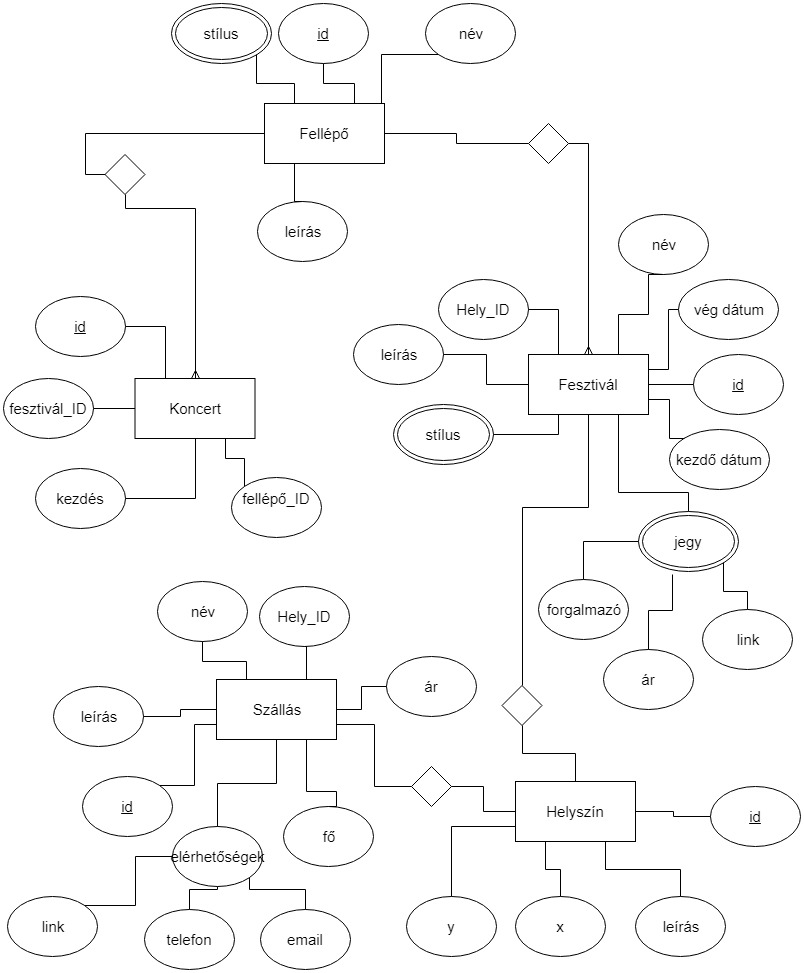
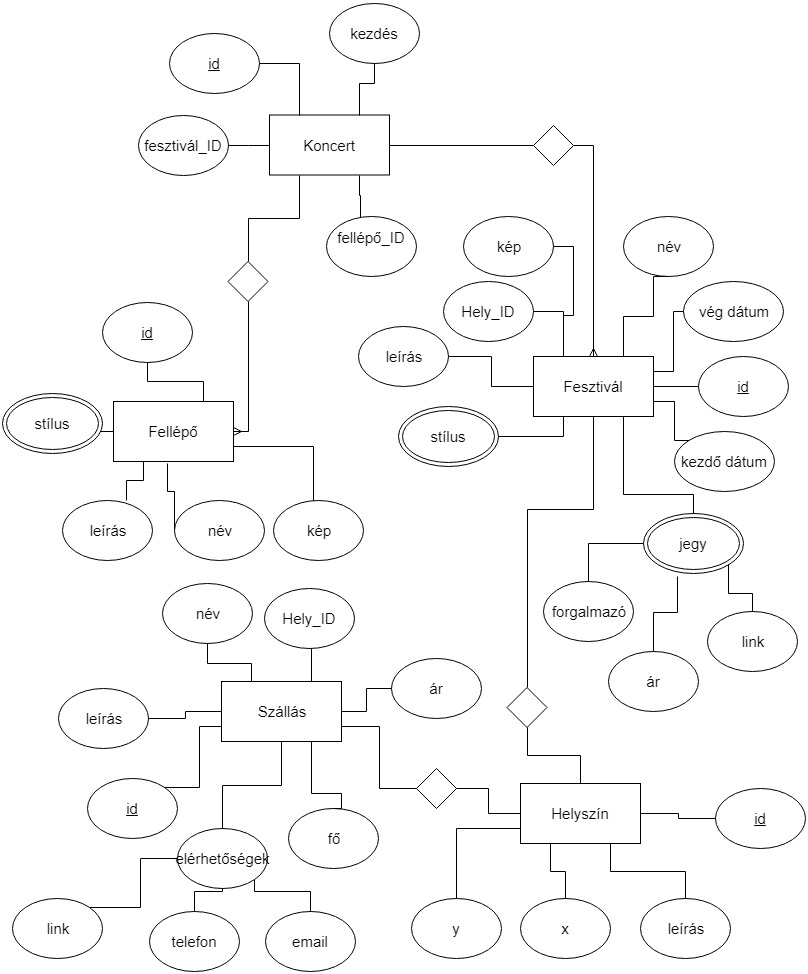
nyelvhelyesség, és apróbb hibák fixálása

diff --git a/dolgozat/fejezetek/4_tervezes.tex b/dolgozat/fejezetek/4_tervezes.tex
@@ -56,8 +56,13 @@ A megvalósuló projektből kliens oldalon ki fog maradni a desktop és a mobil 
 
 \subsection{Fejlesztői környezetek}
 
-A fejlesztéshez a JetBrains termékeit fogom használni. A szerveroldali fejlesztéshez az InteliJ IDEA nevű szoftvert, a front-end-hez pedig a WebStorm-ot. Azért döntöttem mellettük, mert nagyon színvonalas eszközök, sokrétűen támogatják a fejlesztést. 
-Ezenkívül a Postman alkalmazást használom a minta kérések beküldéséhez, ezáltal a funkciók teszteléséhez szerver oldalon. 
+A fejlesztéshez a JetBrains termékeit fogom használni. A szerveroldali fejlesztéshez az InteliJ IDEA nevű szoftvert, a front-end-hez pedig a WebStorm-ot. Azért döntöttem mellettük, mert nagyon színvonalas eszközök, sokrétűen támogatják a fejlesztést.
+ 
+A Postman alkalmazást használom a minta kérések beküldéséhez, ezáltal a funkciók teszteléséhez szerver oldalon.
+
+A JMeter alkalmazást használom a stressztesztek elvégzéséhez és monitorozásához.
+
+A szoftverek verziókövetését pedig a GitHub.com segítségével végzem.
 
 \section{Az alkalmazás tervezése}
 
@@ -79,17 +84,17 @@ ER-modellt használtam ahhoz, hogy szemléltessem az egyedek között fennálló
 \label{fig:usEr}
 \end{figure}
 
-Lesz egy fellépő egyedünk, mivel zenei fesztiválokban gondolkodunk, így ezek zenekarok, vagy zenészek lesznek elsősorban. Egy fellépő több stílusban is játszhat, hisz ha egy zenekar népzenét játszik, az nem zárja ki, hogy ezt ötvözzék rockzenei motívumokkal. Sőt rengeteg előadó játszik több stílusban. A fellépőről tartunk számon egy rövid leírást. És elengedhetetlen, hogy az előadó nevét letároljuk. Az egyedi azonosítót pedig automatikusan generáltatjuk. 
+Lesz egy fellépő egyedünk, mivel zenei fesztiválokban gondolkodunk, így ezek zenekarok, vagy zenészek lesznek elsősorban. Egy fellépő több stílusban is játszhat, hisz ha egy zenekar népzenét játszik, az nem zárja ki, hogy ezt ötvözzék rockzenei motívumokkal. Sőt rengeteg előadó játszik több stílusban. A fellépőről tartunk számon egy rövid leírást. És elengedhetetlen, hogy az előadó nevét letároljuk. Tárolhatunk egy képet is az előadókról. Ezt egy központi mappában tesszük meg, viszont az előadóhoz tartozó fájl nevét a fellépő táblában is le kell tárolnunk. Az egyedi azonosítót pedig automatikusan generáltatjuk. 
 
-Egy fesztiválkereső alkalmazást készítünk, így nem meglepő, hogy lesz egy fesztivál nevű entitásunk is. És talán ez lesz a legnagyobb komplexitású is. Minden fesztiválnak van egy neve, amely alapján a legkönnyebben azonosítják a rendszer felhasználói. Mivel egy ilyen esemény nem tart általában egész évben, ezért van egy kezdetét és végét jelző dátum. Erre a két időpontra azért is lesz szükségünk, hogy az érdeklő előre tudja  tervezni a programjait, és egyáltalán tudja, hogy nem-e ütközik valami más eseménnyel az általa kiválasztott fesztivál. Egy fesztiválnak is lehet több stílusa akár csak egy zenekarnak. Ahogy fentebb írtam itt nem csak a stílusok férnek bele, hanem egyéb jelzők is. Az ID generálást itt is az adatbázisra bízzuk. A leírás részt azoknak az információknak tartjuk fent, amelyekre nem készítettük fel a rendszerünk, és a marketing szövegeknek is kiváló helyet biztosít. A jegy a fejlesztés első fázisában nem lesz bevezetve, így csak egy hyperlink-et tartalmaz majd a forgalmazó weboldalára és nem külön egyedként, hanem egy oszlopként reprezentálódik az adatbázisban.
+Egy fesztiválkereső alkalmazást készítünk, így nem meglepő, hogy lesz egy fesztivál nevű entitásunk is. És talán ez lesz a legnagyobb komplexitású is. Minden fesztiválnak van egy neve, amely alapján a legkönnyebben azonosítják a rendszer felhasználói. Mivel egy ilyen esemény nem tart általában egész évben, ezért van egy kezdetét és végét jelző dátum. Erre a két időpontra azért is lesz szükségünk, hogy az érdeklő előre tudja  tervezni a programjait, és egyáltalán tudja, hogy nem-e ütközik valami más eseménnyel az általa kiválasztott fesztivál. Egy fesztiválnak is lehet több stílusa akár csak egy zenekarnak. Ahogy fentebb írtam itt nem csak a stílusok férnek bele, hanem egyéb jelzők is. Az ID generálást itt is az adatbázisra bízzuk. A leírás részt azoknak az információknak tartjuk fent, amelyekre nem készítettük fel a rendszerünk, és a marketing szövegeknek is kiváló helyet biztosít. A jegy a fejlesztés első fázisában nem lesz bevezetve, így csak egy hyperlink-et tartalmaz majd a forgalmazó weboldalára és nem külön egyedként, hanem egy oszlopként reprezentálódik az adatbázisban. A fesztiválhoz is tartozik egy kép, itt is a nevét mentjük az adatbázisba, a képet pedig egy központi tároló mappába. 
 
 Koncert táblában két idegen kulcs lesz megtalálható, mivel ez a tábla kapcsolja össze a fellépőt a fesztivállal és ezáltal megtudjuk azt is, hogy milyen előadók vesznek részt az általunk preferált fesztiválon. Azt is megtudjuk nézni, hogy mikor kezdődik a számunkra érdekes előadás, mert egy kezdés nevű tulajdonságot is bevezettem. Lehetett volna tárolni azt is hogy mikor van vége. Alapvetően ez csak egy kapcsoló tábla, így nem szerettem volna túl bonyolítani, és ha valakit érdekel egy program, akkor úgyis kivárja a végét. Egyedi azonosítója ennek a táblának is lesz, amit itt is az adatbázisra bízunk.
 
-Lesz egy helyszín nevű táblánk, amiben címek pozícióit lehet tárolni. Erre azért lesz szükségünk, hogy le tudjuk tárolni, hogy pontosan hol lesz az esemény, vagy a szállás. Természetesen itt is lesz egyedi azonosító minden rekordunkhoz. Ha az x és az y koordinátát tároljunk, akkor rengeteg dolgot ki tudunk váltani ezzel. Van a földnek egy egységes, minden tudományos intézmény által elfogadott geo koordináta rendszere. Ahol minden pozícióhoz tartozik egy hosszúsági és szélességi fok. Ezzel ki lehet váltani az hogy tároljuk a várost, az utcát, a házszámot, irányítószámot. De akár egy fesztivált szervezhetnek olyan helyre is, ahol ezek nincsenek is, akkor ahhoz egy másik struktúrát kellene bevezetni, amiben helyrajzi számot adunk át. És ha ezt a fesztivál szervező úgy kívánja megadni, hogy például az esemény egy adott csarnokban, vagy kulturális központban lesz, akkor megint egy újabb struktúra kerülne bevezetésre. Ha viszont csak a koordinátákat tároljuk, akkor ezeket valamilyen API-n keresztül, vagy előre mások által legyártott adatbázisból könnyen elérhetjük ezt egy koordináta rendszerbeli pont segítségével. Ha a legismertebb Google nevű cég által készített térkép alkalmazást nézzük, ott az egyes koordinátákhoz, nem csak címeket, de akár éttermeket, boltokat, cégeket és minden egyebet tárolhatunk, sőt ezeket még értékelni is lehet. Egy leírást is tárolunk, itt meg lehet adni extra információkat, hol és hogyan közelíthető meg a megadott pont, illetve amíg nem integráljuk az alkalmazást egy API-hoz vagy egyéb elérhető lehetőségek közül addig magát a címet is itt tároljuk.
+Lesz egy helyszín nevű táblánk, amiben címek pozícióit lehet tárolni. Erre azért lesz szükségünk, hogy le tudjuk tárolni, hogy pontosan hol lesz az esemény, vagy a szállás. Természetesen itt is lesz egyedi azonosító minden rekordunkhoz. Ha az x és az y koordinátát tároljunk, akkor rengeteg dolgot ki tudunk váltani ezzel. Van a földnek egy egységes, minden tudományos intézmény által elfogadott geo koordináta rendszere. Ahol minden pozícióhoz tartozik egy hosszúsági és szélességi fok. Ezzel ki lehet váltani azt, hogy tárolni kelljen a várost, az utcát, a házszámot és az irányítószámot. Egy fesztivált szervezhetnek olyan helyre is, ahol ezek nincsenek is, akkor ahhoz egy másik struktúrát kellene bevezetni, amiben helyrajzi számot adunk át. És ha ezt a fesztivál szervező úgy kívánja megadni, hogy például az esemény egy adott csarnokban, vagy kulturális központban lesz, akkor megint egy újabb struktúra kerülne bevezetésre. Ha viszont csak a koordinátákat tároljuk, akkor ezeket valamilyen API-n keresztül, vagy előre mások által legyártott adatbázisból könnyen elérhetjük ezt egy koordináta rendszerbeli pont segítségével. Ha a legismertebb Google nevű cég által készített térkép alkalmazást nézzük, ott az egyes koordinátákhoz, nem csak címeket, de akár éttermeket, boltokat, cégeket és minden egyebet tárolhatunk, sőt ezeket még értékelni is lehet. Egy leírást is tárolunk, itt meg lehet adni extra információkat, hol és hogyan közelíthető meg a megadott pont, illetve amíg nem integráljuk az alkalmazást egy API-hoz vagy egyéb elérhető lehetőségek közül addig magát a címet is itt tároljuk.
 
 A szállásokat is tároljuk az adatbázisunkban. Lesz egy fő nevű oszlopunk amely azt tárolja, hogy a szállás hány személyt képes befogadni, ez egy kisebb baráti társaság esetén lehet érdekes. Az ár tulajdonság egységárat tárol, tehát hogy mennyibe kerül egy éjszaka egy fő részére. Általában vannak egyedi konstrukciók, kedvezmények, de mivel mi nem foglalkozunk a foglalással, ezért csak irányárat mutatunk. Szolgáltatunk egy linket, ahol a foglalást el tudják végezni. Természetesen a szállás nevét is megadjuk. A címét az idegen kulcs segítségével könnyen megkaphatjuk. A leírásban minden egyebet tudunk rögzíteni. Az szállásadó elérhetőségeit is megadjuk az érdeklődök számára. A foglalási linken túl még egy telefonszámot és egy email címet is szolgáltat az alkalmazásunk.
 
-Végül, de nem utolsósorban jönnek a felhasználóink, az alkalmazás regisztráció nélkül is teljes értékű alkalmazást nyújt egy keresni szándékozó felhasználó számára. A regisztrációra csak annak van szüksége, aki fel szeretne vinni az adatbázisba rekordokat. Itt több jogosultság is  felmerülhet. Fesztiválmenedzseri, aki a koncerteket, fesztiválokat viheti fel, ő felelős egy vagy több fesztivál menedzseléséért, a zenekarmenedzser, hasonló mint a fesztivál menedzser csak ő a fellépőkért felel. Adminisztrátori neki mindenhez van jogosultsága ami elérhető az alkalmazásból. Mi csak az adminisztrátori jogot fogjuk kiosztani, illetve az átlag felhasználót. A felhasználó személyes adatai közül az e-mail címét, nevét, születési dátumát és a lakhelyét, valamint a jelszavát tároljuk, amit valamilyen hasító algoritmuson lefuttathatunk előtte. Mint mindig itt is az adatbázisunk generálja az azonosítót.
+Végül, de nem utolsósorban jönnek a felhasználóink, az alkalmazás regisztráció nélkül is teljes értékű alkalmazást nyújt egy keresni szándékozó felhasználó számára. A regisztrációra csak annak van szüksége, aki fel szeretne vinni az adatbázisba rekordokat. Itt több jogosultság is  felmerülhet. Fesztiválmenedzseri, aki a koncerteket, fesztiválokat viheti fel, ő felelős egy vagy több fesztivál menedzseléséért, a zenekarmenedzser, hasonló mint a fesztivál menedzser csak ő a fellépőkért felel. Adminisztrátori, akinek mindenhez van jogosultsága ami elérhető az alkalmazásból. Mi csak az adminisztrátori jogot fogjuk kiosztani, illetve az átlag felhasználót. A felhasználó személyes adatai közül az e-mail címét, nevét, születési dátumát és a lakhelyét, valamint a jelszavát tároljuk, amit valamilyen hasító algoritmuson lefuttathatunk előtte. Mint mindig itt is az adatbázisunk generálja az azonosítót.
 
 Az egyedek között fent álló relációk a következőek:
 \begin{itemize}
@@ -255,9 +260,3 @@ Módosítások:
 \item Szállás törlésénél is figyelni kell, hogy a hozzátartozó helyszínt is törölni kell vele együtt.
 \item Amelyik fesztivál és koncert elmúlt, tehát a befejezés dátumán már az aktuális naptári idő  túlhaladt, azt archiválni kell. Erre a funkcióra elég egy triggert írni. Archiválás megvalósítása megoldható úgy, hogy átmozgatjuk egy másik táblába, vagy egy új változó bevezetésével, és azt hogy elérhető-e elég igazról hamisra állítani. Esetleg a mindent vissza adó függvény csak azt adja vissza amelynek a befejező dátuma nagyobb mint az aktuális dátum.
 \end{itemize}
-
-\begin{comment}{Az egyes hibalehetőségeket is sorra kellene majd venni!}
-\end{comment}
-
-\begin{comment}{Meg kellene nézni, hogy hogy lehetne esetleg még jobban csoportosítani a listaelemekben említett dolgokat, és inkább alpontokba rendezni alcímekkel együtt.}
-\end{comment}

diff --git a/dolgozat/fejezetek/2_hasonlo_alkalmazasok.tex b/dolgozat/fejezetek/2_hasonlo_alkalmazasok.tex
@@ -20,7 +20,7 @@ A fesztiválokhoz nagyon változatos és sokrétű funkció csoportok tartoznak,
 
 A fesztiválozáshoz, mint szolgáltatáshoz közvetlenül kapcsolódó funkciók az alábbiak.
 \begin{itemize}
-\item Koncertek, a legnagyobb vonzereje a fesztiválnak. A koncert szolgáltatást a fellépők nyújtják a résztvevők számára, gyakran párhuzamosan több színpadon is párhuzamosan. Ezeket kellő időben és helyen kell megismertetni a közönséggel. Ide értve nem csak a zenei produkciókat, de egyéb performance-t, és előadásokat, prevenciókat.
+\item Koncertek, a legnagyobb vonzereje a fesztiválnak. A koncert szolgáltatást a fellépők nyújtják a résztvevők számára, gyakran több színpadon párhuzamosan. Ezeket kellő időben és helyen kell megismertetni a közönséggel. Ide értve nem csak a zenei produkciókat, de egyéb performance-t, és előadásokat, prevenciókat.
 \item Élelmiszer és ital árusítás. Alapvető szükségletet elégít ki, mivel a zenei fesztiválok jelentős része 3-10 napos periódusban gondolkodik, így jelentős összeget költenek erre a kategóriára. Gyakran többet mint magára a belépőre, utazásra, szállásra.
 \item Egyéb sport, kulturális, szellemi programok, vetélkedők. Technológiai bemutatók kipróbálási lehetőséggel.
 \item VIP szolgáltatások, közönségtalálkozók.
@@ -49,7 +49,7 @@ Melyek azok a szolgáltatások, amelyek érdekelni fogják a felhasználót, sze
 \begin{itemize}
 \item Fellépők listája, mint már említettem ez az egyik legfőbb vonzerő.
 \item Az extrém nem mindenhol kipróbálható sportolási, technológiai lehetőség.
-\item Hasznos lehet a környékbeli étkezők elérhetősége, akár étlapja árakkal. Tudjuk, hogy a fesztiválok a magas áraikról és főleg a gyors kajáikról híresek. Érdemes lehet az olcsóbb, vagy a gasztronómia szerelmeseinek a környező elit éttermekről előre információt nyújtani.
+\item Hasznos lehet a környékbeli étkezők elérhetősége, akár étlapja árakkal. Tudjuk, hogy a fesztiválok a magas áraikról és főleg a gyors étkezdéikről híresek. Érdemes lehet az olcsóbb, vagy a gasztronómia szerelmeseinek a környező elit éttermekről előre információt nyújtani.
 \item Dohányboltok, illetve dohányzás. Magyarországon jelenleg a jogszabályi környezet befolyásolja a dohányáruk vásárlási helyét, erről nyújthat információt egy alkalmazás, és arról is, hogy lehetséges-e dohányozni a fesztiválterületen vagy sem.
 \item Szállás, vannak olyan fesztiválok, amelyek sátorhelyet és/vagy faházat biztosítanak a közönségük számára. Emellett megjeleníthetőek a kollégiumok, apartmanok, szállodák.
 \item Kutyabarátság, kutya bevihető-e a rendezvényre.
@@ -87,7 +87,7 @@ Lehet település, kerület, illetve megye szerint is keresni. Típus és dátum
 
 \subsection{Élményem.hu}
 
-5+1. http://elmenyem.hu : Az oldal nem rendelkezik fesztiválkereső résszel, ez inkább egy blog. De rengeteg aktualitással, hírekkel szolgál a jövőben megrendezendő eseményekkel kapcsolatban. 
+5+1. http://elmenyem.hu : Az oldal nem rendelkezik fesztiválkereső résszel. Ez inkább egy blog, de rengeteg aktualitással, hírekkel szolgál a jövőben megrendezendő eseményekkel kapcsolatban. 
 
 \subsection{Weboldalak összegzése}
 
@@ -136,7 +136,7 @@ Extra lehetőségek, amelyekkel nem éltek az itt feltüntetett weboldalak:
 
 \item Közlekedés: Érdemes lehet feltüntetni, magát a fesztivál koordinátáit, mint ezt a programturizmus.hu weboldalon láthattuk, emellett érdemes lehet parkolási lehetőségekről térképen előre informálni az odaérkezőket, egy nagyobb eseményre akár több ezer személyautóval is érkezhetnek. A buszpályaudvarról és vasútállomásról a célhoz eljutást segítő helyi járatok menetrendjét is lehetne mellékelni. Az eseménnyel szerződött taxivállalatok telefonszámait felsorolni. A gyalogos eljutást térkép segítségével megmutatni.
 
-\item Szállás: Mint láthattuk, majdnem mindegyik weboldal ajánlott szállást hotelekben. De a fesztiválok klasszikus közönsége, az nem szállodákban alszik. Általában sátorban, faházakban, kollégiumokban, vagy épp ahol eléri az álom. Érdemes lenne jelezni a felhasználó felé, hogy lehet-e sátrazni, és ha igen, van-e ennek extra költsége. A kollégiumokat, faházakat is lehetne ilyen módon jelezni.
+\item Szállás: Mint láthattuk, majdnem mindegyik weboldal ajánlott szállást hotelekben, de a fesztiválok klasszikus közönsége, az nem szállodákban alszik. Általában sátorban, faházakban, kollégiumokban, vagy épp ahol eléri az álom. Érdemes lenne jelezni a felhasználó felé, hogy lehet-e sátrazni, és ha igen, van-e ennek extra költsége. A kollégiumokat, faházakat is lehetne ilyen módon jelezni.
 
 \item Időjárás: Ez sajnos nem jósolható hónapokkal előre, de pár héttel a fesztivál kezdete előtt ez is felkerülhetne. Hisz mint tudjuk, ezen események javarészt fedetlen vagy részben fedett helyeken zajlanak.
 

diff --git a/dolgozat/fejezetek/6_teszteles.tex b/dolgozat/fejezetek/6_teszteles.tex
@@ -35,12 +35,12 @@ A felhasználói felületet funkcionális tesztekkel manuálisan tudtam teszteln
 
 \subsection{Back-end tesztelése}
 
-A back-end-nél szokás használni a test driven fejlesztést, ez azt jelenti hogy először megírjuk a teszteket és utána a kódot hozzá. Minden modul akkor áll készen, ha definiált tesztek sikeresen lefutottak. Majd jöhet a következő modul, viszont azt már úgy kell elkészítenünk, hogy a saját tesztjei is lefussanak, illetve a régebben elkészített modulok tesztjei is sikeresek maradjanak. 
+A Spring-nél szokás használni a tesztelés által irányított fejlesztést(TDD), ez azt jelenti hogy először megírjuk a teszteket és utána a kódot hozzá. Minden modul akkor áll készen, ha definiált tesztek sikeresen lefutottak. Majd jöhet a következő modul, viszont azt már úgy kell elkészítenünk, hogy a saját tesztjei is lefussanak, illetve a régebben elkészített modulok tesztjei is sikeresek maradjanak. Én nem így készítettem el a modult, csak már a kész modulokat teszteltem.
+
+Először a back-enddel készültem el, és nem volt felhasználói felületem(UI) aminek segítségével az egyes kéréseket szimulálhattam volna, így Postman segítségével küldtem be a minta kéréseimet és ezáltal teszteltem fejlesztési időben. 
 
 Egység teszt, ezzel egyetlen egy metódus működését tesztelhetjük, csak a  legelemibb megoldásokat tesztelhetjük vele.
 
 Az egység tesztek után az integrációs teszteket szokták elvégezni, azt vizsgálja, hogy a modulok jól tudnak-e együttműködni.
 
-Stresszteszt, arra használatos, hogy kiderítsük mekkora aktivitásnak tehetjük ki az alkalmazást. JMeter segítségével.
-
-Postman test
+Stresszteszteket JMeter segítségével készítettem. A stressztesztek arra használatosak, hogy kiderítsük mekkora aktivitásnak tehetjük ki az alkalmazást.
